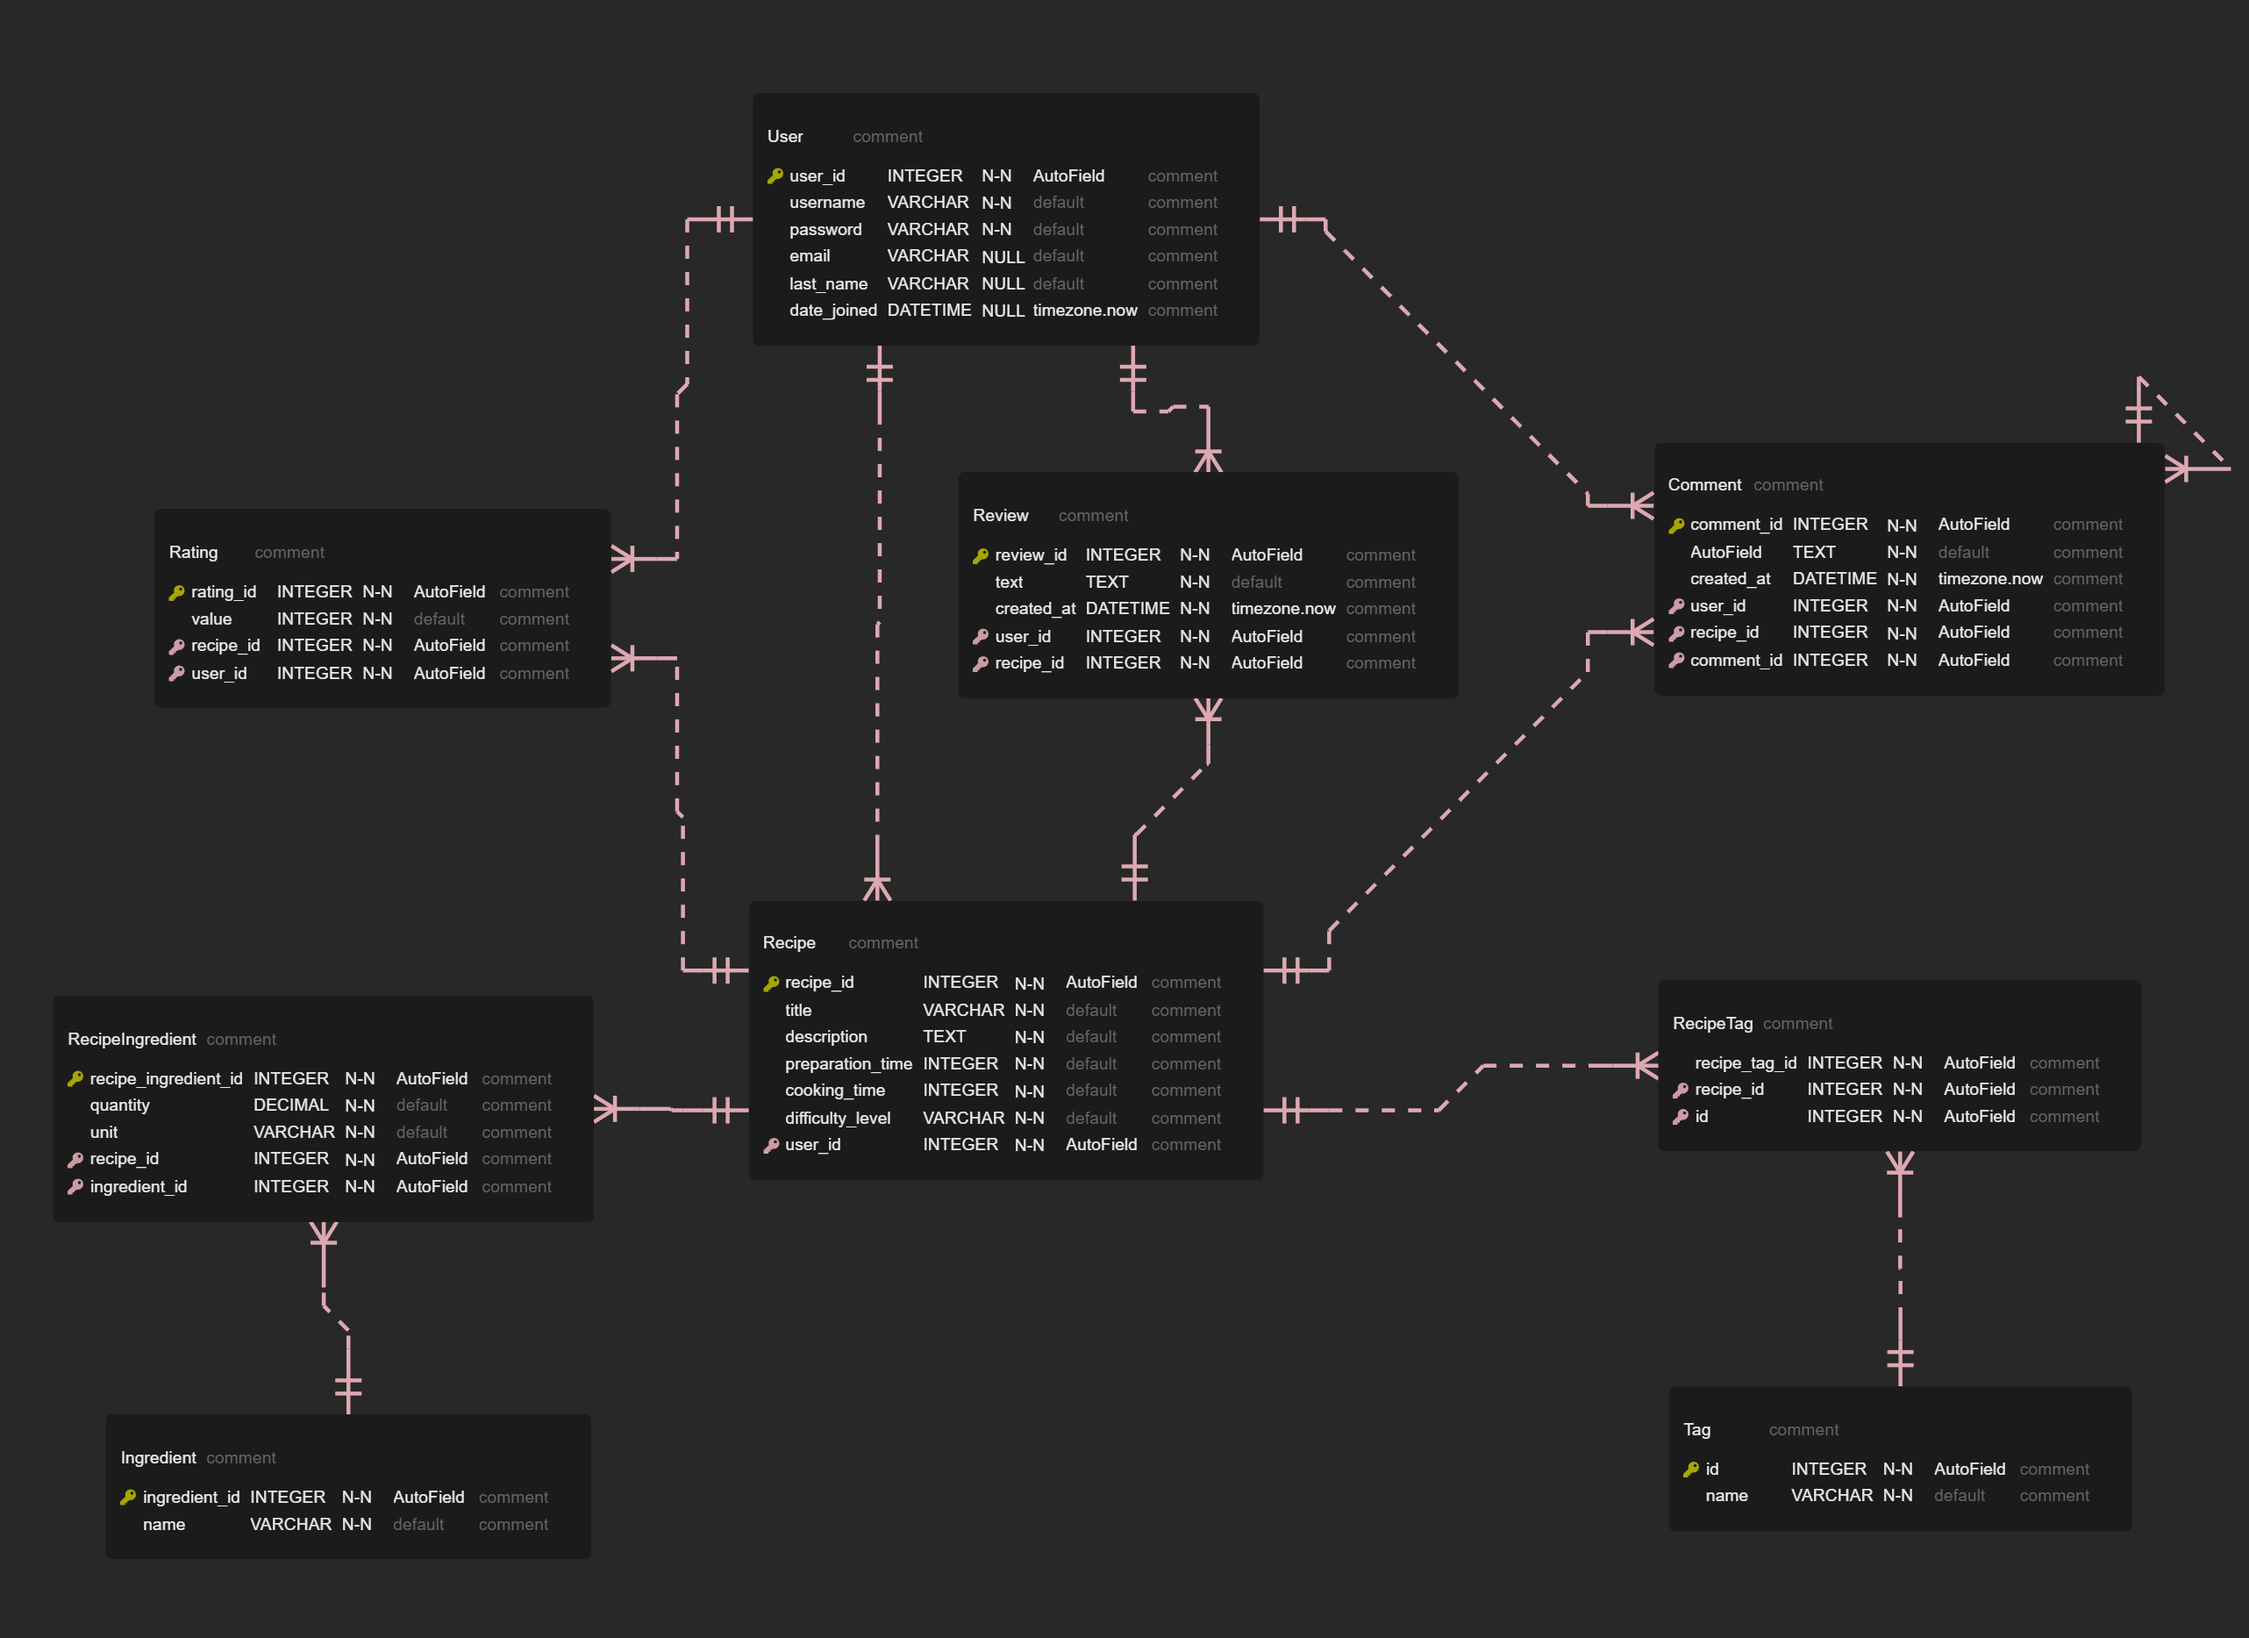
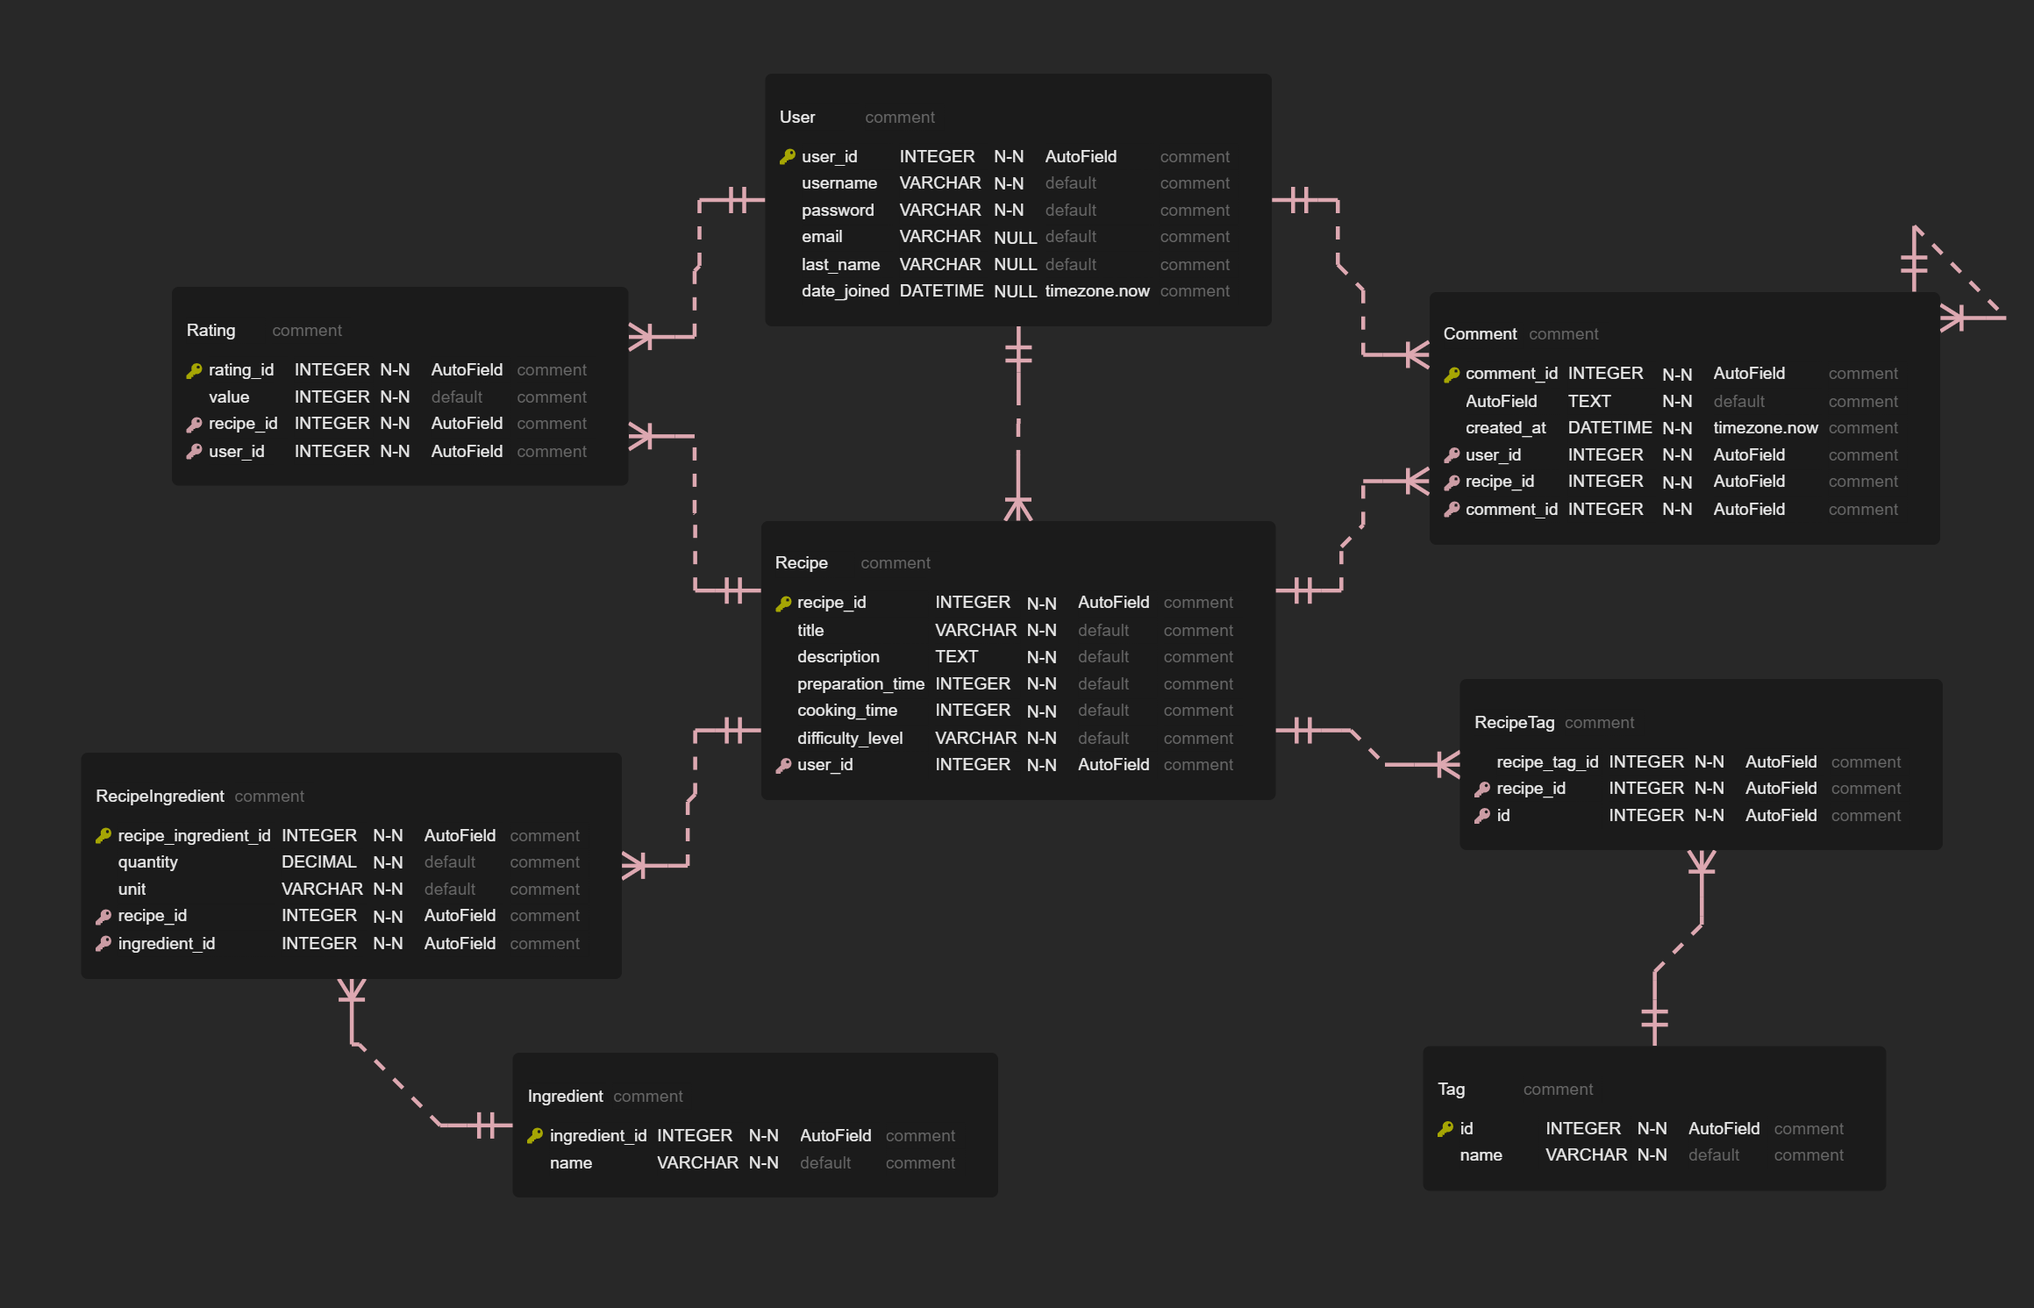
Remove `Review` from models

diff --git a/website/recipes/models.py b/website/recipes/models.py
@@ -40,12 +40,6 @@ class RecipeTag(models.Model):
     recipe = models.ForeignKey(Recipe, on_delete=models.CASCADE)
     tag = models.ForeignKey(Tag, on_delete=models.CASCADE)
 
-class Review(models.Model):
-    user = models.ForeignKey(settings.AUTH_USER_MODEL, on_delete=models.CASCADE)
-    recipe = models.ForeignKey(Recipe, on_delete=models.CASCADE)
-    text = models.TextField()
-    created_at = models.DateTimeField(auto_now_add=True)
-
 class Rating(models.Model):
     user = models.ForeignKey(settings.AUTH_USER_MODEL, on_delete=models.CASCADE)
     recipe = models.ForeignKey(Recipe, on_delete=models.CASCADE)

diff --git a/website/recipes/admin.py b/website/recipes/admin.py
@@ -1,5 +1,5 @@
 from django.contrib import admin
-from recipes.models import User, Recipe, Ingredient, RecipeIngredient, Tag, RecipeTag, Review, Rating, Comment
+from recipes.models import User, Recipe, Ingredient, RecipeIngredient, Tag, RecipeTag, Rating, Comment
 
 
 admin.site.register(User)
@@ -8,6 +8,5 @@ admin.site.register(Ingredient)
 admin.site.register(RecipeIngredient)
 admin.site.register(Tag)
 admin.site.register(RecipeTag)
-admin.site.register(Review)
 admin.site.register(Rating)
 admin.site.register(Comment)

diff --git a/website/recipes/migrations/0009_delete_review.py b/website/recipes/migrations/0009_delete_review.py
@@ -1,0 +1,16 @@
+# Generated by Django 4.2.11 on 2024-03-31 03:01
+
+from django.db import migrations
+
+
+class Migration(migrations.Migration):
+
+    dependencies = [
+        ('recipes', '0008_alter_rating_value'),
+    ]
+
+    operations = [
+        migrations.DeleteModel(
+            name='Review',
+        ),
+    ]
